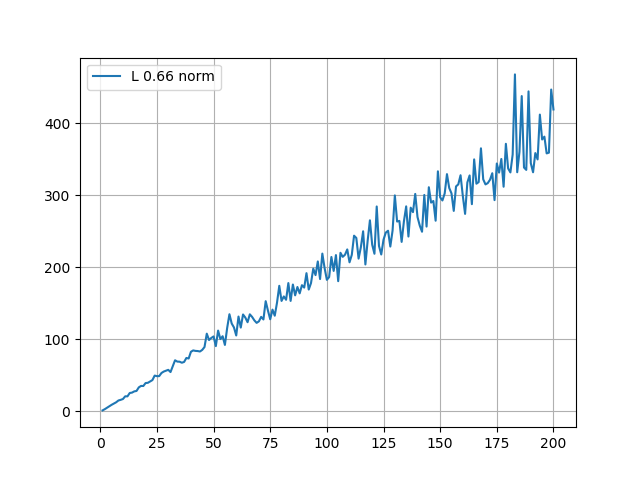
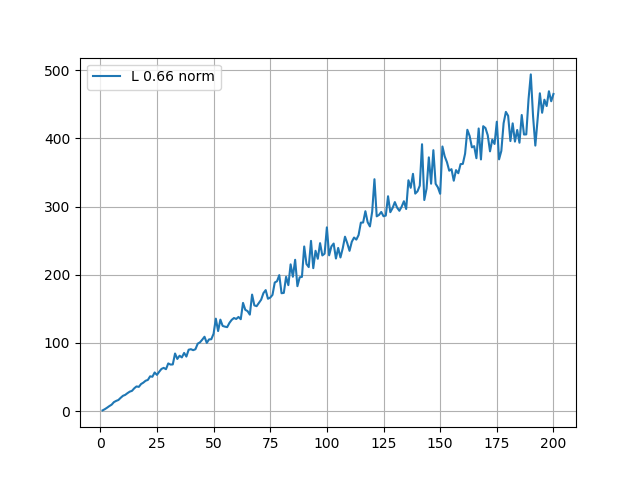
p1 f2 t2

diff --git a/1. On the Surprising Behavior of Distance Metrics in High Dimensional Space/table_2_simulation.py b/1. On the Surprising Behavior of Distance Metrics in High Dimensional Space/table_2_simulation.py
@@ -1,0 +1,39 @@
+import numpy as np
+import matplotlib.pyplot as plt
+fig, ax = plt.subplots()
+
+#List of k to try for L-k norms
+k_values = np.array([2.0, 1.0])
+#Number of Trials
+t=10000
+#No of points
+N=10
+#Dimensions
+D=np.arange(start=0,stop=100,step=5,dtype=int)
+
+print("\nTrials=",t,"N=",N)
+
+#dimensionwise freq array
+freq = np.zeros(len(D))
+
+for dim_ind in range(len(D)) :
+	for trial_num in range(t):
+		#generating 10 datapoints
+		data = np.random.uniform(low=0.0,high=1.0,size=(N,D[dim_ind]))
+		#calculating Ud for each datapoint
+		Ud = (max(np.linalg.norm(data,ord=2,axis=1))-min(np.linalg.norm(data,ord=2,axis=1)))/(min(np.linalg.norm(data,ord=2,axis=1))+0.0000000001)
+		#calculating Td for each datapoint
+		Td = (max(np.linalg.norm(data,ord=1,axis=1))-min(np.linalg.norm(data,ord=1,axis=1)))/(min(np.linalg.norm(data,ord=1,axis=1))+0.0000000001)
+		freq_trial = np.sum(Ud<Td)
+		freq[dim_ind] = freq[dim_ind] + freq_trial
+
+#converting freq to probability
+prob = freq/(t*1.0)
+
+plt.plot(D,prob, 'o')
+plt.xlabel("Dimensions")
+plt.ylabel("Prob(Ud<Td)")
+plt.title("N="+str(N)+", trials="+str(t))
+plt.grid()
+fig.savefig('table_2'+'.png')
+plt.show()

diff --git a/1. On the Surprising Behavior of Distance Metrics in High Dimensional Space/fig_2_simulation.py b/1. On the Surprising Behavior of Distance Metrics in High Dimensional Space/fig_2_simulation.py
@@ -1,0 +1,24 @@
+import numpy as np
+import matplotlib.pyplot as plt
+fig, ax = plt.subplots()
+
+#List of k to try for L-k norms
+k_values = np.arange(start=0,stop=10,step=0.5)
+#No of points
+N=np.array([100,1000,10000])
+#Dimensions
+dim=20
+
+for n in N:
+	#generating 10 datapoints
+	data = np.random.uniform(low=0.0,high=1.0,size=(n,dim))
+	rel_contrast = np.array([(max(np.linalg.norm(data,ord=k,axis=1))-min(np.linalg.norm(data,ord=k,axis=1)))/(min(np.linalg.norm(data,ord=k,axis=1))+0.0000000001) for k in k_values])
+	plt.plot(k_values,rel_contrast,label="N="+str(n))
+
+plt.xlabel("Parameter of Distance Norm")
+plt.ylabel("Relative Contrast")
+plt.title("Relative Contrasts for uniform distribution (D="+str(dim)+" was used)")
+plt.legend()
+plt.grid()
+fig.savefig('fig_2'+'.png')
+plt.show()

diff --git a/1. On the Surprising Behavior of Distance Metrics in High Dimensional Space/fig_1_simulation.py b/1. On the Surprising Behavior of Distance Metrics in High Dimensional Space/fig_1_simulation.py
@@ -5,7 +5,7 @@ import matplotlib.pyplot as plt
 k_values = np.array([3.0, 2.0, 1.0, 2.0/3.0, 2.0/5.0])
 
 #Number of Datapoints
-N=1000
+N=10000
 
 #Max number of dimensions to try
 D=200
